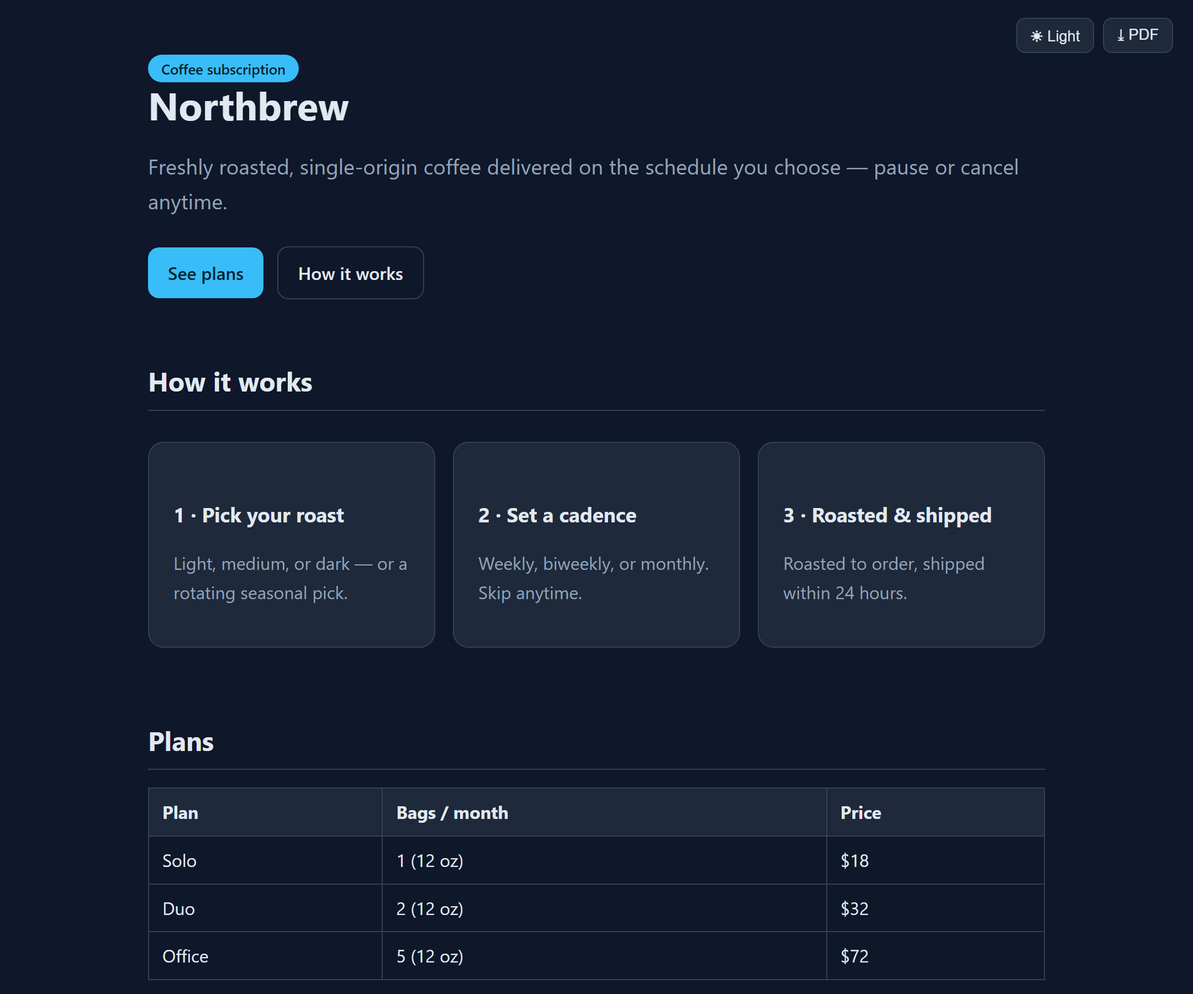
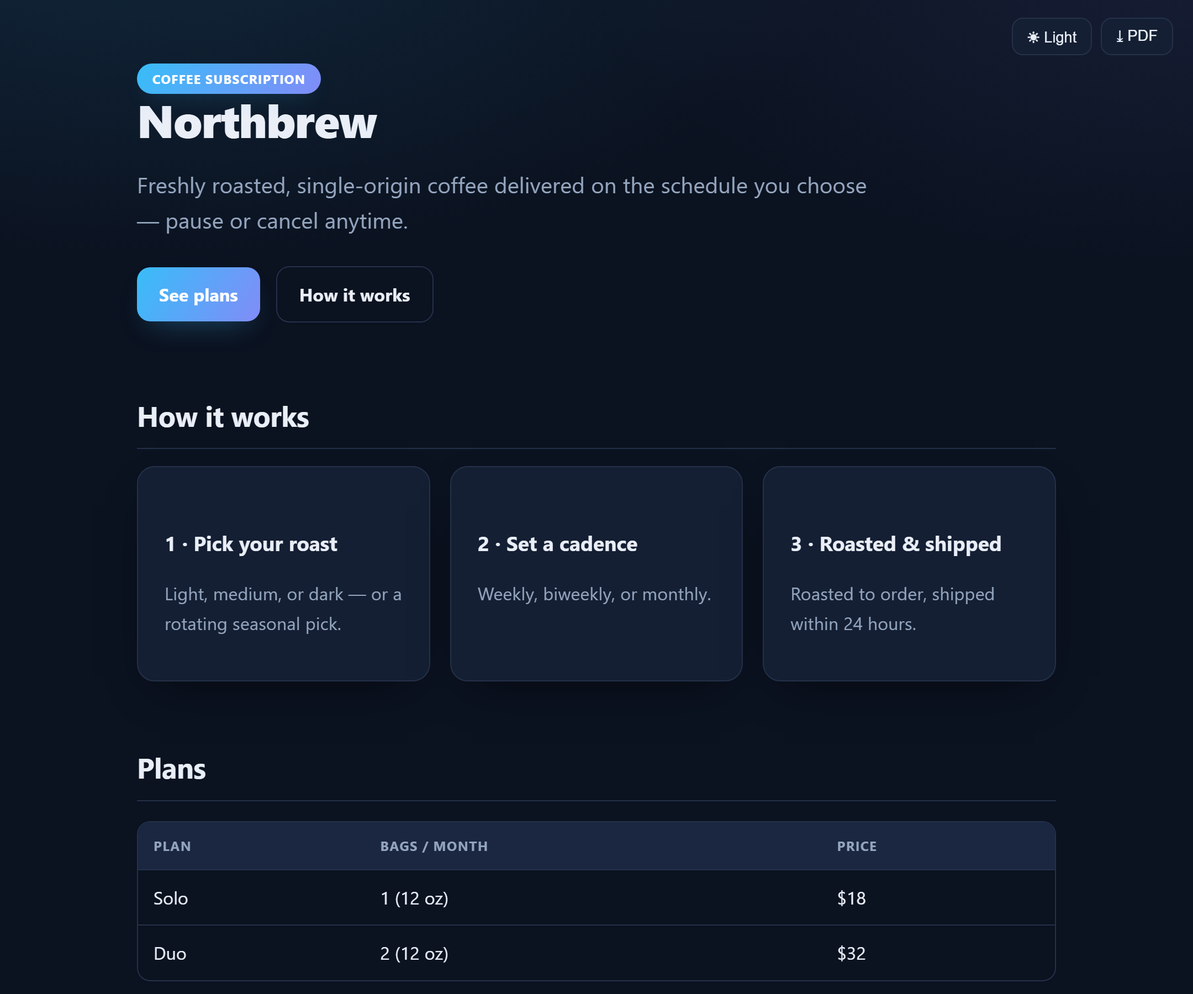
feat(design): premium, professional default look across all templates (dark + light)
- Richer palette (deep navy / clean light), subtly tinted background, elevated cards
  with soft shadows + hover lift, gradient badges/buttons, gradient headlines & KPI
  numbers (with @supports solid fallback), refined tables, pill/gradient active tabs,
  polished tooltips. Applied to page / report / chart / diagram / slides.
- Fix light-mode grey wash: gradients now fade to a same-hue rgba(...,0) instead of
  `transparent` (which interpolates through black and greys out light backgrounds).
- Fix diagram guidance comment: remove example arrows ("-->") that HTML-terminated the
  comment early and leaked "B{Valid?}..." text into output (the garble seen earlier).
- authoring.md: document the built-in premium look + the never-fade-to-transparent rule.
- Regenerate all four README previews with the new design.

Verified page + report render correctly in BOTH dark and light; all templates' JS parses;
Mermaid renders and is theme-sensitive (node/text/cluster colors adapt).

diff --git a/plugins/present/skills/present/assets/templates/report.html b/plugins/present/skills/present/assets/templates/report.html
@@ -5,64 +5,85 @@
 <meta name="viewport" content="width=device-width, initial-scale=1">
 <title>{{TITLE}}</title>
 <style>
-  /* Single-page interactive REPORT — tabbed sections + hover tooltips. Offline, theme + PDF. */
+  /* Single-page interactive REPORT — tabbed sections + hover tooltips. Premium, offline, theme + PDF. */
   :root, html[data-theme="dark"] {
-    --bg:#0f172a; --panel:#1e293b; --ink:#e2e8f0; --muted:#94a3b8; --border:#334155; --accent:#38bdf8; --link:#7dd3fc; --tabbg:#0b1120;
+    --bg:#0b1220; --panel:#141f33; --elev:#1b2740; --ink:#e9eef7; --muted:#94a5be; --border:#243149;
+    --accent:#38bdf8; --accent2:#818cf8; --link:#7dd3fc; --tabbg:#0e1728;
+    --tint1:rgba(56,189,248,.12); --tint1e:rgba(56,189,248,0); --tint2:rgba(129,140,248,.10); --tint2e:rgba(129,140,248,0); --hover-bd:#33507d; --row:rgba(56,189,248,.06);
+    --shadow:0 16px 40px -20px rgba(0,0,0,.65); --ring:rgba(56,189,248,.35);
   }
   html[data-theme="light"] {
-    --bg:#f8fafc; --panel:#ffffff; --ink:#0f172a; --muted:#475569; --border:#e2e8f0; --accent:#0284c7; --link:#0369a1; --tabbg:#eef2f7;
+    --bg:#f5f7fb; --panel:#ffffff; --elev:#f7f9fc; --ink:#0f1b2e; --muted:#4a5a72; --border:#e6ebf3;
+    --accent:#0284c7; --accent2:#4f46e5; --link:#0369a1; --tabbg:#eef2f8;
+    --tint1:rgba(2,132,199,.07); --tint1e:rgba(2,132,199,0); --tint2:rgba(79,70,229,.05); --tint2e:rgba(79,70,229,0); --hover-bd:#a7cdea; --row:rgba(2,132,199,.05);
+    --shadow:0 18px 44px -22px rgba(15,23,42,.22); --ring:rgba(2,132,199,.28);
   }
   :root { --display-font: system-ui,-apple-system,'Segoe UI',Roboto,sans-serif;
           --body-font:    system-ui,-apple-system,'Segoe UI',Roboto,sans-serif; }
   * { box-sizing:border-box; }
-  body { margin:0; background:var(--bg); color:var(--ink); font-family:var(--body-font); line-height:1.6;
-         transition:background .2s,color .2s; }
-  .wrap { max-width:1080px; margin:0 auto; padding:40px 24px 80px; }
-  header h1 { font-family:var(--display-font); font-size:2rem; line-height:1.15; margin:0 0 .2em; }
-  header .sub { color:var(--muted); font-size:1.1rem; margin:0 0 20px; }
-  h2 { font-family:var(--display-font); font-size:1.35rem; margin:0 0 .6em; }
-  h3 { font-size:1.05rem; margin:1.4em 0 .4em; }
-  a { color:var(--link); }
+  body { margin:0; color:var(--ink); font-family:var(--body-font); line-height:1.65; letter-spacing:.1px;
+         -webkit-font-smoothing:antialiased; transition:background .25s,color .25s;
+         background:radial-gradient(1100px 520px at 12% -8%, var(--tint1), var(--tint1e) 60%),
+                    radial-gradient(1000px 520px at 100% -5%, var(--tint2), var(--tint2e) 55%),
+                    var(--bg); background-attachment:fixed; }
+  .wrap { max-width:1080px; margin:0 auto; padding:48px 24px 80px; }
+  header h1 { font-family:var(--display-font); font-size:2.3rem; line-height:1.1; letter-spacing:-.02em; font-weight:800; margin:0 0 .15em; color:var(--ink); }
+  header .sub { color:var(--muted); font-size:1.12rem; margin:0 0 22px; }
+  h2 { font-family:var(--display-font); font-size:1.4rem; font-weight:700; letter-spacing:-.01em; margin:0 0 .6em; }
+  h3 { font-family:var(--display-font); font-size:1.05rem; font-weight:700; margin:1.4em 0 .4em; }
+  a { color:var(--link); text-underline-offset:3px; }
   .muted { color:var(--muted); }
 
   /* Tabs */
-  .tabs { position:sticky; top:0; z-index:20; display:flex; flex-wrap:wrap; gap:4px; padding:8px 0;
-          background:var(--bg); border-bottom:1px solid var(--border); margin-bottom:24px; }
-  .tab { appearance:none; background:transparent; color:var(--muted); border:0; border-radius:8px 8px 0 0;
-         padding:10px 16px; font-size:.95rem; font-weight:600; cursor:pointer; border-bottom:2px solid transparent; }
+  .tabs { position:sticky; top:0; z-index:20; display:flex; flex-wrap:wrap; gap:6px; padding:10px 0;
+          background:var(--bg); border-bottom:1px solid var(--border); margin-bottom:26px; }
+  .tab { appearance:none; background:transparent; color:var(--muted); border:0; border-radius:10px;
+         padding:9px 16px; font-size:.95rem; font-weight:650; cursor:pointer; transition:background .15s,color .15s; }
   .tab:hover { color:var(--ink); background:var(--tabbg); }
-  .tab.active { color:var(--accent); border-bottom-color:var(--accent); }
-  .panel { display:none; animation:fade .25s ease; }
+  .tab.active { color:#fff; background:linear-gradient(120deg,var(--accent),var(--accent2)); box-shadow:0 8px 20px -10px var(--ring); }
+  .panel { display:none; animation:fade .28s ease; }
   .panel.active { display:block; }
   @keyframes fade { from{opacity:0; transform:translateY(6px);} to{opacity:1; transform:none;} }
   .panel-title { display:none; }   /* shown only in print */
 
   /* Content blocks */
-  .card { background:var(--panel); border:1px solid var(--border); border-radius:14px; padding:18px 20px; margin:14px 0; }
-  .grid { display:grid; gap:16px; grid-template-columns:repeat(auto-fit,minmax(220px,1fr)); }
-  .kpi { background:var(--panel); border:1px solid var(--border); border-radius:14px; padding:16px 18px; }
-  .kpi .n { font-family:var(--display-font); font-size:1.8rem; font-weight:700; }
-  .kpi .l { color:var(--muted); font-size:.85rem; }
-  table { width:100%; border-collapse:collapse; margin:14px 0; }
-  th, td { border:1px solid var(--border); padding:8px 12px; text-align:left; }
-  th { background:var(--panel); }
+  .card { background:var(--panel); border:1px solid var(--border); border-radius:16px; padding:20px 22px; margin:16px 0;
+          box-shadow:var(--shadow); transition:transform .18s,border-color .18s; }
+  .card:hover { transform:translateY(-2px); border-color:var(--hover-bd); }
+  .grid { display:grid; gap:18px; grid-template-columns:repeat(auto-fit,minmax(220px,1fr)); }
+  .kpi { position:relative; background:var(--panel); border:1px solid var(--border); border-radius:16px; padding:18px 20px 18px 22px;
+         box-shadow:var(--shadow); overflow:hidden; transition:transform .18s,border-color .18s; }
+  .kpi::before { content:""; position:absolute; left:0; top:0; bottom:0; width:3px; background:linear-gradient(var(--accent),var(--accent2)); }
+  .kpi:hover { transform:translateY(-2px); border-color:var(--hover-bd); }
+  .kpi .n { font-family:var(--display-font); font-size:2rem; font-weight:800; letter-spacing:-.02em; color:var(--ink); }
+  .kpi .l { color:var(--muted); font-size:.85rem; margin-top:2px; }
+  table { width:100%; border-collapse:separate; border-spacing:0; margin:16px 0; border:1px solid var(--border); border-radius:12px; overflow:hidden; }
+  th, td { padding:11px 14px; text-align:left; border-bottom:1px solid var(--border); }
+  th { background:var(--elev); font-size:.76rem; text-transform:uppercase; letter-spacing:.05em; color:var(--muted); }
+  tr:last-child td { border-bottom:0; } tbody tr:hover td { background:var(--row); }
   .chart-wrap { position:relative; height:340px; margin:8px 0; }
-  .badge { display:inline-block; background:var(--accent); color:#04212e; border-radius:999px; padding:2px 12px; font-size:.78rem; font-weight:700; }
+  .badge { display:inline-block; background:linear-gradient(120deg,var(--accent),var(--accent2)); color:#fff; border-radius:999px;
+           padding:4px 14px; font-size:.72rem; font-weight:700; letter-spacing:.06em; text-transform:uppercase; box-shadow:0 8px 20px -10px var(--ring); }
+
+  /* Gradient headline + KPI numbers, only where background-clip:text is supported (falls back to solid --ink). */
+  @supports ((-webkit-background-clip:text) or (background-clip:text)) {
+    header h1, .kpi .n { background:linear-gradient(120deg,var(--ink) 25%,var(--accent)); -webkit-background-clip:text; background-clip:text; -webkit-text-fill-color:transparent; }
+  }
 
   /* Tooltip — pure CSS, offline. Use <span class="tip" data-tip="explanation">term</span> */
   .tip { position:relative; border-bottom:1px dotted var(--muted); cursor:help; }
   .tip:hover::after, .tip:focus::after { content:attr(data-tip); position:absolute; left:50%; bottom:calc(100% + 8px);
-    transform:translateX(-50%); background:var(--panel); color:var(--ink); border:1px solid var(--border);
-    border-radius:8px; padding:8px 11px; width:max-content; max-width:280px; white-space:normal; font-size:.82rem;
-    font-weight:400; line-height:1.4; z-index:60; box-shadow:0 8px 28px rgba(0,0,0,.35); }
+    transform:translateX(-50%); background:var(--elev); color:var(--ink); border:1px solid var(--border);
+    border-radius:10px; padding:9px 12px; width:max-content; max-width:280px; white-space:normal; font-size:.82rem;
+    font-weight:400; line-height:1.45; z-index:60; box-shadow:0 12px 30px -8px rgba(0,0,0,.4); }
   .tip:hover::before, .tip:focus::before { content:""; position:absolute; left:50%; bottom:calc(100% + 2px);
     transform:translateX(-50%); border:6px solid transparent; border-top-color:var(--border); z-index:60; }
 
   .toolbar { position:fixed; top:16px; right:18px; display:flex; gap:8px; z-index:50; }
-  .toolbar button { background:var(--panel); color:var(--ink); border:1px solid var(--border); border-radius:8px;
-                    padding:6px 12px; font-size:.85rem; cursor:pointer; }
-  .toolbar button:hover { border-color:var(--accent); }
-  footer { color:var(--muted); font-size:.8rem; margin-top:32px; }
+  .toolbar button { background:var(--panel); color:var(--ink); border:1px solid var(--border); border-radius:10px;
+                    padding:7px 13px; font-size:.85rem; cursor:pointer; box-shadow:var(--shadow); transition:border-color .15s,transform .15s; }
+  .toolbar button:hover { border-color:var(--accent); transform:translateY(-1px); }
+  footer { color:var(--muted); font-size:.8rem; margin-top:36px; }
 
   /* Print / PDF: show ALL tabs' content, each with its title; hide chrome. */
   body.printing .tabs { display:none; }
@@ -74,7 +95,8 @@
     .toolbar, .tabs { display:none !important; }
     .panel { display:block !important; }
     .panel-title { display:block; }
-    .card, table, .chart-wrap, .kpi { break-inside:avoid; }
+    .card, table, .chart-wrap, .kpi { break-inside:avoid; box-shadow:none; }
+    header h1, .kpi .n { -webkit-text-fill-color:var(--ink); color:var(--ink); }
   }
 </style>
 </head>

diff --git a/plugins/present/skills/present/assets/templates/page.html b/plugins/present/skills/present/assets/templates/page.html
@@ -5,53 +5,72 @@
 <meta name="viewport" content="width=device-width, initial-scale=1">
 <title>{{TITLE}}</title>
 <style>
-  /* General self-contained HTML page — landing pages, reports, documents, dashboards.
-     Theme-aware (light/dark toggle) + PDF export, same as the other templates. */
+  /* General self-contained HTML page — landing pages, one-pagers, documents, dashboards.
+     Premium-but-professional defaults; theme-aware (light/dark) + PDF export. */
   :root, html[data-theme="dark"] {
-    --bg:#0f172a; --panel:#1e293b; --ink:#e2e8f0; --muted:#94a3b8; --border:#334155; --accent:#38bdf8; --link:#7dd3fc;
+    --bg:#0b1220; --panel:#141f33; --elev:#1b2740; --ink:#e9eef7; --muted:#94a5be; --border:#243149;
+    --accent:#38bdf8; --accent2:#818cf8; --link:#7dd3fc;
+    --tint1:rgba(56,189,248,.12); --tint1e:rgba(56,189,248,0); --tint2:rgba(129,140,248,.10); --tint2e:rgba(129,140,248,0); --hover-bd:#33507d; --row:rgba(56,189,248,.06);
+    --shadow:0 16px 40px -20px rgba(0,0,0,.65); --ring:rgba(56,189,248,.35);
   }
   html[data-theme="light"] {
-    --bg:#f8fafc; --panel:#ffffff; --ink:#0f172a; --muted:#475569; --border:#e2e8f0; --accent:#0284c7; --link:#0369a1;
+    --bg:#f5f7fb; --panel:#ffffff; --elev:#f7f9fc; --ink:#0f1b2e; --muted:#4a5a72; --border:#e6ebf3;
+    --accent:#0284c7; --accent2:#4f46e5; --link:#0369a1;
+    --tint1:rgba(2,132,199,.07); --tint1e:rgba(2,132,199,0); --tint2:rgba(79,70,229,.05); --tint2e:rgba(79,70,229,0); --hover-bd:#a7cdea; --row:rgba(2,132,199,.05);
+    --shadow:0 18px 44px -22px rgba(15,23,42,.22); --ring:rgba(2,132,199,.28);
   }
-  /* Fonts — theme-independent. Default = system stack (output unchanged unless a preset is chosen).
-     For an aesthetic direction, override these two with an OFFLINE system-font preset
-     (see references/authoring.md -> "Visual polish"). Never load fonts over the network. */
+  /* Fonts — theme-independent. Default = system stack. Override for an aesthetic direction with an
+     OFFLINE system-font preset (see references/authoring.md -> "Visual polish"); never load fonts over the network. */
   :root { --display-font: system-ui,-apple-system,'Segoe UI',Roboto,sans-serif;
           --body-font:    system-ui,-apple-system,'Segoe UI',Roboto,sans-serif; }
   * { box-sizing:border-box; }
-  body { margin:0; background:var(--bg); color:var(--ink); transition:background .2s,color .2s;
-         font-family: var(--body-font); line-height:1.65; }
-  .container { max-width:860px; margin:0 auto; padding:48px 24px 96px; }
-  h1 { font-size:2.2rem; line-height:1.15; margin:0 0 .4em; font-family: var(--display-font); }
-  h2 { font-size:1.5rem; margin:2em 0 .5em; border-bottom:1px solid var(--border); padding-bottom:.25em; font-family: var(--display-font); }
-  h3 { font-size:1.15rem; margin:1.6em 0 .4em; font-family: var(--display-font); }
+  body { margin:0; color:var(--ink); font-family:var(--body-font); line-height:1.7; letter-spacing:.1px;
+         -webkit-font-smoothing:antialiased; transition:background .25s,color .25s;
+         background:radial-gradient(1100px 520px at 12% -8%, var(--tint1), var(--tint1e) 60%),
+                    radial-gradient(1000px 520px at 100% -5%, var(--tint2), var(--tint2e) 55%),
+                    var(--bg); background-attachment:fixed; }
+  .container { max-width:880px; margin:0 auto; padding:56px 24px 100px; }
+  h1 { font-family:var(--display-font); font-size:2.6rem; line-height:1.1; letter-spacing:-.02em; font-weight:800; margin:0 0 .35em; color:var(--ink); }
+  @supports ((-webkit-background-clip:text) or (background-clip:text)) {
+    h1 { background:linear-gradient(120deg, var(--ink) 30%, var(--accent)); -webkit-background-clip:text; background-clip:text; -webkit-text-fill-color:transparent; }
+  }
+  h2 { font-family:var(--display-font); font-size:1.6rem; font-weight:700; letter-spacing:-.01em; margin:2.2em 0 .6em; padding-bottom:.3em; border-bottom:1px solid var(--border); }
+  h3 { font-family:var(--display-font); font-size:1.15rem; font-weight:700; margin:1.7em 0 .4em; }
   p, li { color:var(--ink); }
-  a { color:var(--link); }
-  .lead { font-size:1.2rem; color:var(--muted); }
+  a { color:var(--link); text-underline-offset:3px; }
+  .lead { font-size:1.25rem; line-height:1.6; color:var(--muted); max-width:62ch; }
   .muted { color:var(--muted); }
-  .card { background:var(--panel); border:1px solid var(--border); border-radius:14px; padding:20px 22px; margin:16px 0; }
-  .grid { display:grid; gap:16px; grid-template-columns:repeat(auto-fit,minmax(220px,1fr)); }
-  .badge { display:inline-block; background:var(--accent); color:#04212e; border-radius:999px; padding:2px 12px; font-size:.8rem; font-weight:600; }
-  table { width:100%; border-collapse:collapse; margin:16px 0; }
-  th, td { border:1px solid var(--border); padding:8px 12px; text-align:left; }
-  th { background:var(--panel); }
-  code, pre { background:var(--panel); border:1px solid var(--border); border-radius:8px; }
-  code { padding:.1em .4em; } pre { padding:14px 16px; overflow:auto; }
-  hr { border:0; border-top:1px solid var(--border); margin:2em 0; }
-  .btn { display:inline-block; background:var(--accent); color:#04212e; text-decoration:none; font-weight:600;
-         border-radius:10px; padding:10px 18px; margin:6px 8px 6px 0; }
-  .chart-wrap { position:relative; height:340px; margin:16px 0; }
-
+  .card { position:relative; background:var(--panel); border:1px solid var(--border); border-radius:16px; padding:22px 24px; margin:18px 0;
+          box-shadow:var(--shadow); transition:transform .18s ease, box-shadow .18s ease, border-color .18s ease; }
+  .card:hover { transform:translateY(-2px); border-color:var(--hover-bd); }
+  .grid { display:grid; gap:18px; grid-template-columns:repeat(auto-fit,minmax(220px,1fr)); }
+  .grid > .card { margin:0; }
+  .badge { display:inline-block; background:linear-gradient(120deg,var(--accent),var(--accent2)); color:#fff; border-radius:999px;
+           padding:4px 14px; font-size:.72rem; font-weight:700; letter-spacing:.06em; text-transform:uppercase; box-shadow:0 8px 20px -10px var(--ring); }
+  table { width:100%; border-collapse:separate; border-spacing:0; margin:18px 0; border:1px solid var(--border); border-radius:12px; overflow:hidden; }
+  th, td { padding:11px 14px; text-align:left; border-bottom:1px solid var(--border); }
+  th { background:var(--elev); font-size:.76rem; text-transform:uppercase; letter-spacing:.05em; color:var(--muted); }
+  tr:last-child td { border-bottom:0; }
+  tbody tr:hover td { background:var(--row); }
+  code, pre { background:var(--elev); border:1px solid var(--border); border-radius:10px; }
+  code { padding:.12em .45em; font-size:.92em; } pre { padding:16px 18px; overflow:auto; }
+  hr { border:0; height:1px; background:linear-gradient(90deg, transparent, var(--border), transparent); margin:2.4em 0; }
+  .btn { display:inline-flex; align-items:center; gap:.5em; background:linear-gradient(120deg,var(--accent),var(--accent2)); color:#fff;
+         text-decoration:none; font-weight:650; border-radius:12px; padding:11px 20px; margin:6px 10px 6px 0;
+         box-shadow:0 12px 26px -12px var(--ring); transition:transform .15s, box-shadow .15s; }
+  .btn:hover { transform:translateY(-1px); box-shadow:0 16px 32px -12px var(--ring); }
+  .chart-wrap { position:relative; height:340px; margin:18px 0; }
   .toolbar { position:fixed; top:16px; right:18px; display:flex; gap:8px; z-index:50; }
-  .toolbar button { background:var(--panel); color:var(--ink); border:1px solid var(--border); border-radius:8px;
-                    padding:6px 12px; font-size:.85rem; cursor:pointer; }
-  .toolbar button:hover { border-color:var(--accent); }
+  .toolbar button { background:var(--panel); color:var(--ink); border:1px solid var(--border); border-radius:10px; padding:7px 13px;
+                    font-size:.85rem; cursor:pointer; box-shadow:var(--shadow); transition:border-color .15s,transform .15s; }
+  .toolbar button:hover { border-color:var(--accent); transform:translateY(-1px); }
   @media print {
     @page { margin: 16mm; }
     body { background:#fff; }
     .toolbar { display:none !important; }
     .container { max-width:none; padding:0; }
-    .card, pre, table, .chart-wrap { break-inside:avoid; }
+    .card, pre, table, .chart-wrap { break-inside:avoid; box-shadow:none; }
+    h1 { -webkit-text-fill-color:var(--ink); color:var(--ink); }
   }
 </style>
 </head>

diff --git a/plugins/present/skills/present/assets/templates/diagram.html b/plugins/present/skills/present/assets/templates/diagram.html
@@ -5,14 +5,14 @@
 <meta name="viewport" content="width=device-width, initial-scale=1">
 <title>{{TITLE}}</title>
 <style>
-  :root, html[data-theme="dark"] { --bg:#0f172a; --ink:#e2e8f0; --muted:#94a3b8; --stage:#0b1120; --border:#334155; --accent:#38bdf8; }
-  html[data-theme="light"] { --bg:#f1f5f9; --ink:#0f172a; --muted:#475569; --stage:#ffffff; --border:#cbd5e1; --accent:#0284c7; }
+  :root, html[data-theme="dark"] { --bg:#0b1220; --ink:#e9eef7; --muted:#94a5be; --stage:#0e1728; --border:#243149; --accent:#38bdf8; --shadow:0 16px 40px -20px rgba(0,0,0,.65); }
+  html[data-theme="light"] { --bg:#f5f7fb; --ink:#0f1b2e; --muted:#4a5a72; --stage:#ffffff; --border:#e6ebf3; --accent:#0284c7; --shadow:0 18px 44px -22px rgba(15,23,42,.18); }
   * { box-sizing:border-box; }
   body { margin:0; font-family: system-ui,-apple-system,Segoe UI,Roboto,sans-serif;
          background:var(--bg); color:var(--ink); padding:32px; transition:background .2s,color .2s; }
   header { max-width:1200px; margin:0 auto 20px; }
   h1 { font-size:1.6rem; margin:0; }
-  .stage { max-width:1200px; margin:0 auto; background:var(--stage); border:1px solid var(--border);
+  .stage { max-width:1200px; margin:0 auto; background:var(--stage); border:1px solid var(--border); box-shadow:var(--shadow);
            border-radius:14px; padding:24px; overflow:auto; }
   .mermaid { display:flex; justify-content:center; }
   footer { max-width:1200px; margin:20px auto 0; color:var(--muted); font-size:.8rem; }
@@ -37,12 +37,9 @@
 <header><h1>{{TITLE}}</h1></header>
 
 <div class="stage">
-  <!-- DIAGRAM placeholder below: raw Mermaid source between the tags (NOT fenced), e.g.
-       flowchart TD
-         A[Start] --> B{Valid?}
-         B -- yes --> C[Continue]
-         B -- no  --> D[Reject]
-  -->
+  <!-- DIAGRAM placeholder below: put the raw Mermaid source (NOT fenced) between the pre tags.
+       Structure only, no color styling. (Do not write example arrows here: a literal arrow token
+       would end this HTML comment early and leak text into the page.) -->
   <pre class="mermaid" id="diagram">
 {{DIAGRAM}}
   </pre>

diff --git a/plugins/present/skills/present/assets/templates/chart.html b/plugins/present/skills/present/assets/templates/chart.html
@@ -7,10 +7,12 @@
 <style>
   /* Theme variables — toggled via <html data-theme="…"> */
   :root, html[data-theme="dark"] {
-    --bg:#0f172a; --card:#1e293b; --ink:#e2e8f0; --muted:#94a3b8; --grid:#334155; --border:#334155; --accent:#38bdf8;
+    --bg:#0b1220; --card:#141f33; --ink:#e9eef7; --muted:#94a5be; --grid:#243149; --border:#243149; --accent:#38bdf8; --accent2:#818cf8;
+    --shadow:0 16px 40px -20px rgba(0,0,0,.65); --ring:rgba(56,189,248,.35);
   }
   html[data-theme="light"] {
-    --bg:#f1f5f9; --card:#ffffff; --ink:#0f172a; --muted:#475569; --grid:#e2e8f0; --border:#cbd5e1; --accent:#0284c7;
+    --bg:#f5f7fb; --card:#ffffff; --ink:#0f1b2e; --muted:#4a5a72; --grid:#e6ebf3; --border:#e6ebf3; --accent:#0284c7; --accent2:#4f46e5;
+    --shadow:0 18px 44px -22px rgba(15,23,42,.20); --ring:rgba(2,132,199,.28);
   }
   * { box-sizing:border-box; }
   body { margin:0; font-family: system-ui,-apple-system,Segoe UI,Roboto,sans-serif;
@@ -20,7 +22,9 @@
   header p { color:var(--muted); margin:0; }
   .grid { max-width:1100px; margin:0 auto; display:grid; gap:20px;
           grid-template-columns: repeat(auto-fit, minmax(340px, 1fr)); }
-  .card { background:var(--card); border:1px solid var(--border); border-radius:14px; padding:18px; }
+  .card { background:var(--card); border:1px solid var(--border); border-radius:16px; padding:20px; box-shadow:var(--shadow);
+          transition:transform .18s, box-shadow .18s; }
+  .card:hover { transform:translateY(-2px); }
   .card h2 { font-size:1rem; font-weight:600; margin:0 0 12px; color:var(--ink); }
   .card .wrap { position:relative; height:320px; }
   footer { max-width:1100px; margin:24px auto 0; color:var(--muted); font-size:.8rem; }

diff --git a/plugins/present/skills/present/assets/templates/slides.html b/plugins/present/skills/present/assets/templates/slides.html
@@ -5,9 +5,10 @@
 <meta name="viewport" content="width=device-width, initial-scale=1">
 <title>{{TITLE}}</title>
 <style>
-  :root, html[data-theme="dark"] { --bg:#0f172a; --ink:#f1f5f9; --muted:#94a3b8; --accent:#38bdf8; --card:#1e293b; --grid:#334155; }
-  html[data-theme="light"] { --bg:#f8fafc; --ink:#0f172a; --muted:#475569; --accent:#0284c7; --card:#ffffff; --grid:#e2e8f0; }
-  html[data-theme="light"] .slide.title { background:linear-gradient(135deg,#e0f2fe,#f8fafc); }
+  :root, html[data-theme="dark"] { --bg:#0b1220; --ink:#f1f5f9; --muted:#94a5be; --accent:#38bdf8; --accent2:#818cf8; --card:#141f33; --grid:#243149; }
+  html[data-theme="light"] { --bg:#f5f7fb; --ink:#0f1b2e; --muted:#4a5a72; --accent:#0284c7; --accent2:#4f46e5; --card:#ffffff; --grid:#e6ebf3; }
+  .slide.title { background:radial-gradient(900px 500px at 20% 10%, rgba(56,189,248,.16), rgba(56,189,248,0) 60%), linear-gradient(135deg,#0e1a30,#0b1220); }
+  html[data-theme="light"] .slide.title { background:radial-gradient(900px 500px at 20% 10%, rgba(2,132,199,.12), rgba(2,132,199,0) 60%), linear-gradient(135deg,#eaf2fb,#f5f7fb); }
   /* Fonts — theme-independent. Default = system stack. Override for an aesthetic direction with an
      OFFLINE system-font preset (see references/authoring.md -> "Visual polish"); never load fonts over the network. */
   :root { --display-font: system-ui,-apple-system,'Segoe UI',Roboto,sans-serif;

diff --git a/plugins/present/skills/present/references/authoring.md b/plugins/present/skills/present/references/authoring.md
@@ -10,6 +10,9 @@ This is the detailed guide the `present` skill points to. Read it before generat
 - **Theme-aware colors.** Every template has a light/dark toggle driven by CSS variables (`--bg --card --ink --muted --grid --accent`). Default is dark. **Do NOT hardcode chart tick/grid colors** — omit `scales.*.ticks.color` and `grid.color` so they inherit `Chart.defaults` and follow the theme. You may still set dataset/series colors (bars, lines, slices) — those stay constant across themes.
 - **Never hardcode colors in a Mermaid diagram.** Do **not** add `classDef`, `style`, `fill:`, `stroke:`, or `%%{init}%%` color overrides to the diagram source. The templates render Mermaid with `theme:'base'` + plugin-matched theme variables and re-render it on toggle, so an unstyled diagram automatically matches the palette in **both** light and dark. Hardcoded fills override this and break light mode (the diagram stays dark). Write pure structure — nodes, edges, labels, subgraphs — and let the template color it.
 
+## Premium look is built in (don't hand-roll styling)
+The templates ship a polished, professional default design that adapts to light/dark automatically — a subtly tinted background, elevated cards with soft shadows and hover lift, gradient badges/buttons, gradient headlines and KPI numbers (with a safe solid fallback), refined tables and tabs. **Just use the provided classes** (`.card`, `.grid`, `.kpi` + `.n`/`.l`, `.badge`, `.btn`, `.tip`, tables) and the design comes through. Extra CSS-var tokens are available if you need them: `--accent2` (gradient partner), `--elev` (raised surface), `--shadow`, `--ring`, `--muted`. Don't add your own colors/backgrounds that bypass the variables (it breaks theme-switching). **Never fade a gradient to `transparent`** — it interpolates through black and greys out light mode; fade to a same-hue `rgba(…,0)` instead (the templates already do).
+
 ## Built-in controls (all templates, nothing to fill in)
 - **Theme toggle** — ☀/☂ button (and `T` in slides); persisted in `localStorage` under `viz-theme`.
 - **PDF export** — ⤓ PDF button / `P` key → browser print dialog → "Save as PDF". `chart.html` and `diagram.html` switch to the light theme just for printing (readable on paper) and restore after; `slides.html` prints one landscape page per slide. These are wired via `beforeprint`/`afterprint` in each template — leave them intact.
